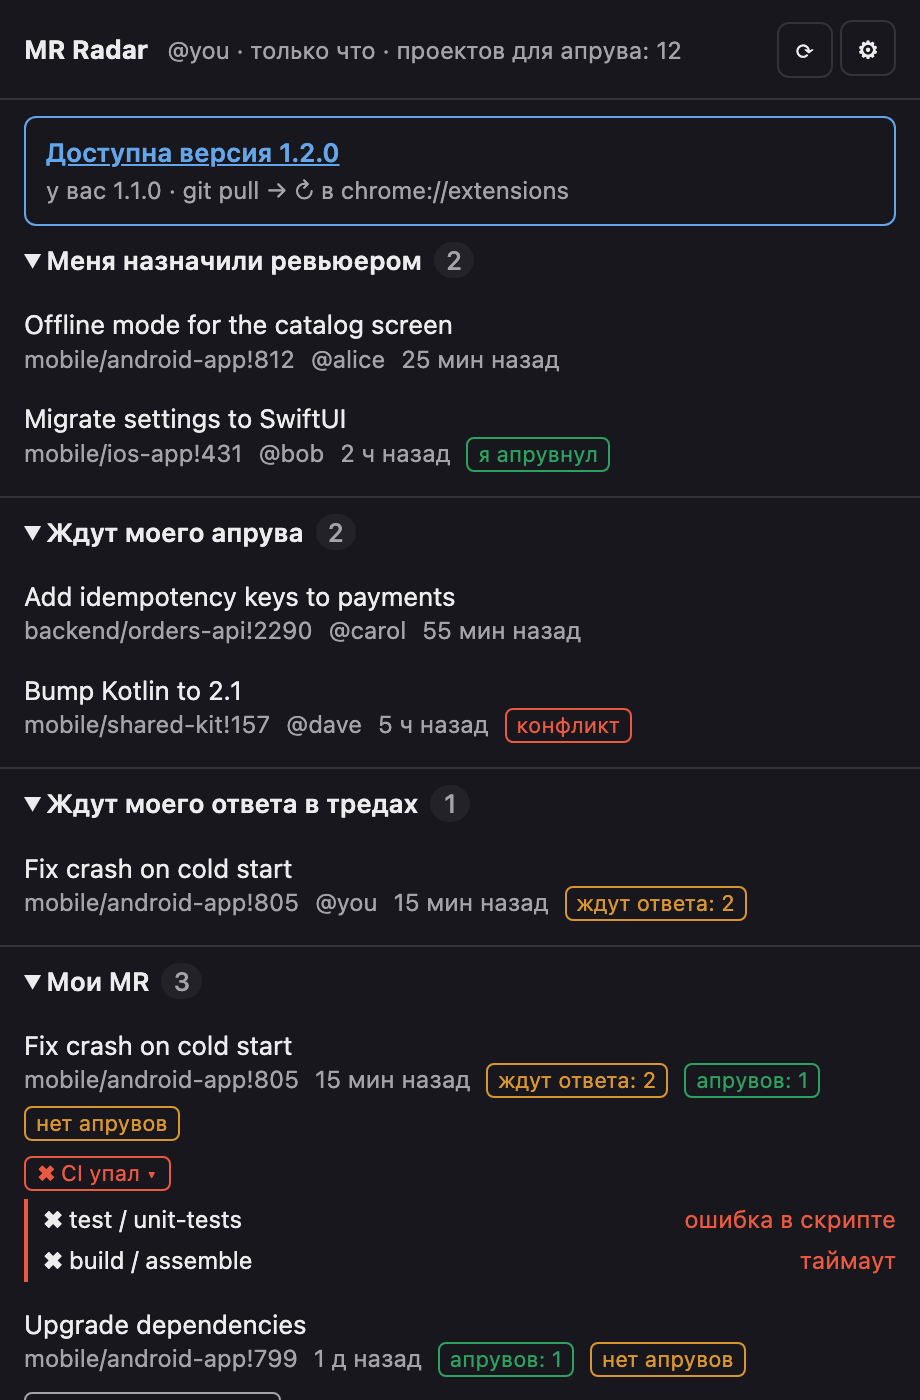
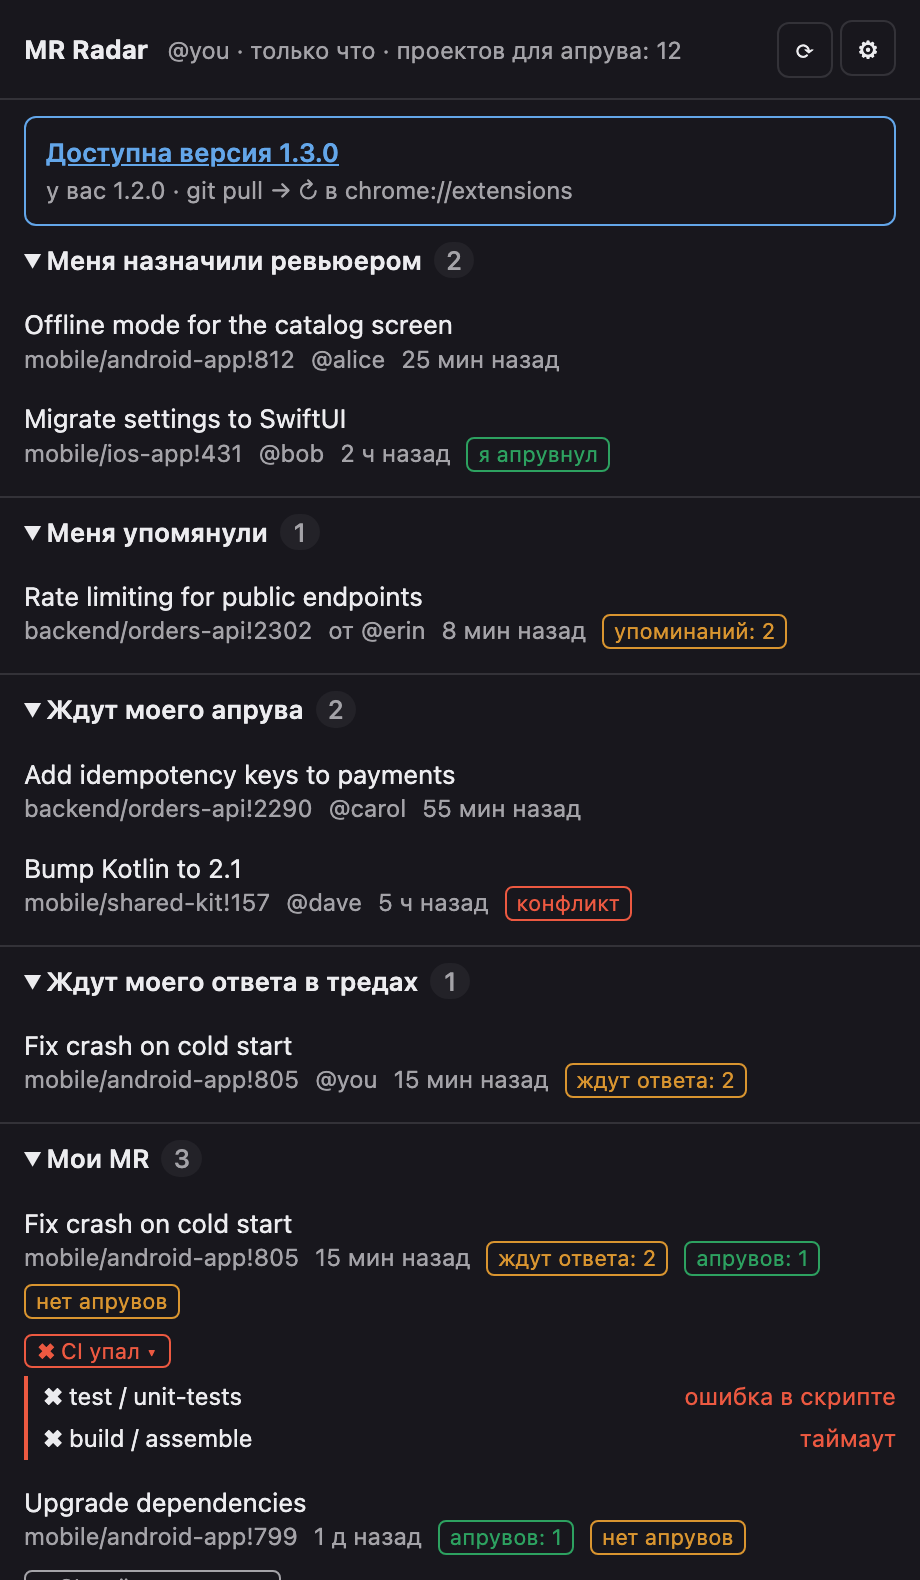
Mentions section based on pending GitLab Todos
- New popup section with open MRs where I was mentioned and have not reacted yet, linking straight to the note
- Mentions count towards the waiting badge counter
- README: section docs, multiple-reviewers workaround for GitLab Free, updated screenshots

diff --git a/src/gitlab.js b/src/gitlab.js
@@ -5,6 +5,7 @@ const REQUEST_TIMEOUT_MS = 20_000;
 const MAX_RATE_LIMIT_RETRIES = 2;
 const MAX_RATE_LIMIT_WAIT_MS = 25_000;
 const SKIPPABLE_STATUSES = new Set([403, 404]);
+const MENTION_ACTIONS = new Set(['mentioned', 'directly_addressed']);
 
 const AUTHORED_PIPELINES_QUERY = `
   query AuthoredPipelines($after: String) {
@@ -263,6 +264,26 @@ export async function fetchMaintainedProjects(client) {
 
 export const normalizeCheckName = (name) => name.trim().toLowerCase();
 
+function collectMentions(todos, excludedKeys) {
+  const todosByMr = new Map();
+  todos
+    .filter((todo) => MENTION_ACTIONS.has(todo.action_name) && todo.target?.state === 'opened')
+    .filter((todo) => !excludedKeys.has(mrKey(todo.target)))
+    .forEach((todo) => {
+      const key = mrKey(todo.target);
+      todosByMr.set(key, [...(todosByMr.get(key) ?? []), todo]);
+    });
+  return [...todosByMr.values()].map((mrTodos) => {
+    const latest = mrTodos.reduce((a, b) => (a.created_at > b.created_at ? a : b));
+    return toItem(latest.target, {
+      mentionedBy: [...new Set(mrTodos.map((todo) => todo.author.username))],
+      mentionCount: mrTodos.length,
+      mentionUrl: latest.target_url,
+      updatedAt: latest.created_at,
+    });
+  });
+}
+
 async function withPipelineFailures(client, item, pipeline, ignoredChecks) {
   if (pipeline?.status !== 'failed') {
     return { ...item, pipeline };
@@ -284,7 +305,7 @@ async function withPipelineFailures(client, item, pipeline, ignoredChecks) {
 export async function collectDashboard(client, { selectedProjectIds = null, ignoredCheckNames = [] } = {}) {
   const me = await client.get('/user');
 
-  const [maintainedProjects, authoredMrs, reviewingMrs, authoredPipelines] = await Promise.all([
+  const [maintainedProjects, authoredMrs, reviewingMrs, authoredPipelines, todos] = await Promise.all([
     fetchMaintainedProjects(client),
     client.getAll('/merge_requests', { scope: 'created_by_me', state: 'opened' }),
     client.getAll('/merge_requests', { scope: 'all', state: 'opened', reviewer_id: me.id }),
@@ -294,6 +315,9 @@ export async function collectDashboard(client, { selectedProjectIds = null, igno
       }
       throw error;
     }),
+    client
+      .getAll('/todos', { state: 'pending', type: 'MergeRequest' })
+      .catch((error) => (error instanceof GitLabError ? null : Promise.reject(error))),
   ]);
   const watchedIds = selectedProjectIds && new Set(selectedProjectIds);
   const watchedProjects = watchedIds
@@ -341,6 +365,7 @@ export async function collectDashboard(client, { selectedProjectIds = null, igno
       });
 
   const reviewing = toItems(reviewingMrs.filter((mr) => mr.author.id !== me.id));
+  const mentioned = collectMentions(todos ?? [], new Set(reviewing.map((item) => item.key)));
   const awaitingApproval = toItems(maintainedMrs.filter((mr) => !reviewingKeys.has(mrKey(mr)))).filter(
     (item) => !item.approvedByMe,
   );
@@ -359,8 +384,10 @@ export async function collectDashboard(client, { selectedProjectIds = null, igno
     skippedProjects,
     skippedMrs,
     pipelinesUnavailable: authoredPipelines === null,
+    mentionsUnavailable: todos === null,
     sections: {
       reviewing: reviewing.sort(byUpdatedDesc),
+      mentioned: mentioned.sort(byUpdatedDesc),
       awaitingApproval: awaitingApproval.sort(byUpdatedDesc),
       threads: threads.sort(byUpdatedDesc),
       authored: authored.sort(byUpdatedDesc),
@@ -369,8 +396,9 @@ export async function collectDashboard(client, { selectedProjectIds = null, igno
 }
 
 export function countActionable(dashboard) {
-  const { reviewing, awaitingApproval, threads, authored } = dashboard.sections;
+  const { reviewing, mentioned, awaitingApproval, threads, authored } = dashboard.sections;
   const waiting = new Set([
+    ...mentioned.map((item) => item.key),
     ...reviewing.filter((item) => !item.approvedByMe && !item.draft).map((item) => item.key),
     ...awaitingApproval.map((item) => item.key),
     ...threads.map((item) => item.key),

diff --git a/src/popup.js b/src/popup.js
@@ -3,6 +3,7 @@ import { GitLabClient, fetchPipelineFailures } from './gitlab.js';
 
 const SECTIONS = [
   { id: 'reviewing', title: 'Меня назначили ревьюером', empty: 'Нет MR на ревью' },
+  { id: 'mentioned', title: 'Меня упомянули', empty: 'Нет новых упоминаний' },
   { id: 'awaitingApproval', title: 'Ждут моего апрува', empty: 'Всё заапрувлено' },
   { id: 'threads', title: 'Ждут моего ответа в тредах', empty: 'Нет неотвеченных тредов' },
   { id: 'authored', title: 'Мои MR', empty: 'Нет открытых MR' },
@@ -218,10 +219,19 @@ function renderCiBlock(item, baseUrl) {
   return block;
 }
 
+function authorLabel(item, sectionId) {
+  if (sectionId === 'mentioned') {
+    return `от @${item.mentionedBy.join(', @')}`;
+  }
+  return `@${item.author}`;
+}
+
 function renderItem(item, sectionId, baseUrl) {
-  const webUrl = isUnderBaseUrl(item.webUrl, baseUrl) ? item.webUrl : baseUrl;
+  const targetUrl = sectionId === 'mentioned' && item.mentionUrl ? item.mentionUrl : item.webUrl;
+  const webUrl = isUnderBaseUrl(targetUrl, baseUrl) ? targetUrl : baseUrl;
   const tags = [];
   if (item.draft) tags.push(tag('draft'));
+  if (sectionId === 'mentioned' && item.mentionCount > 1) tags.push(tag(`упоминаний: ${item.mentionCount}`, 'warn'));
   if (sectionId === 'reviewing' && item.approvedByMe) tags.push(tag('я апрувнул', 'ok'));
   if (item.threadsAwaitingReply > 0) tags.push(tag(`ждут ответа: ${item.threadsAwaitingReply}`, 'warn'));
   const showsPipeline = sectionId === 'authored' && Boolean(item.pipeline);
@@ -238,7 +248,7 @@ function renderItem(item, sectionId, baseUrl) {
 
   const subline = createElement('span', { className: 'sub' }, [
     createElement('span', { text: item.reference }),
-    ...(sectionId === 'authored' ? [] : [createElement('span', { text: `@${item.author}` })]),
+    ...(sectionId === 'authored' ? [] : [createElement('span', { text: authorLabel(item, sectionId) })]),
     createElement('span', { text: formatRelative(item.updatedAt) }),
     ...tags,
   ]);
@@ -275,13 +285,14 @@ function render(dashboard) {
     dashboard?.skippedProjects ? ` · пропущено проектов: ${dashboard.skippedProjects}` : '',
     dashboard?.skippedMrs ? ` · пропущено MR: ${dashboard.skippedMrs}` : '',
     dashboard?.pipelinesUnavailable ? ' · статусы CI недоступны' : '',
+    dashboard?.mentionsUnavailable ? ' · упоминания недоступны' : '',
   ].join('');
   elements.meta.textContent = dashboard?.fetchedAt
     ? `@${dashboard.username} · ${formatRelative(dashboard.fetchedAt)}${skipped}`
     : '';
   elements.sections.replaceChildren(
     ...(dashboard?.sections && dashboard.baseUrl
-      ? SECTIONS.map((section) => renderSection(section, dashboard.sections[section.id], dashboard.baseUrl))
+      ? SECTIONS.map((section) => renderSection(section, dashboard.sections[section.id] ?? [], dashboard.baseUrl))
       : []),
   );
 }
